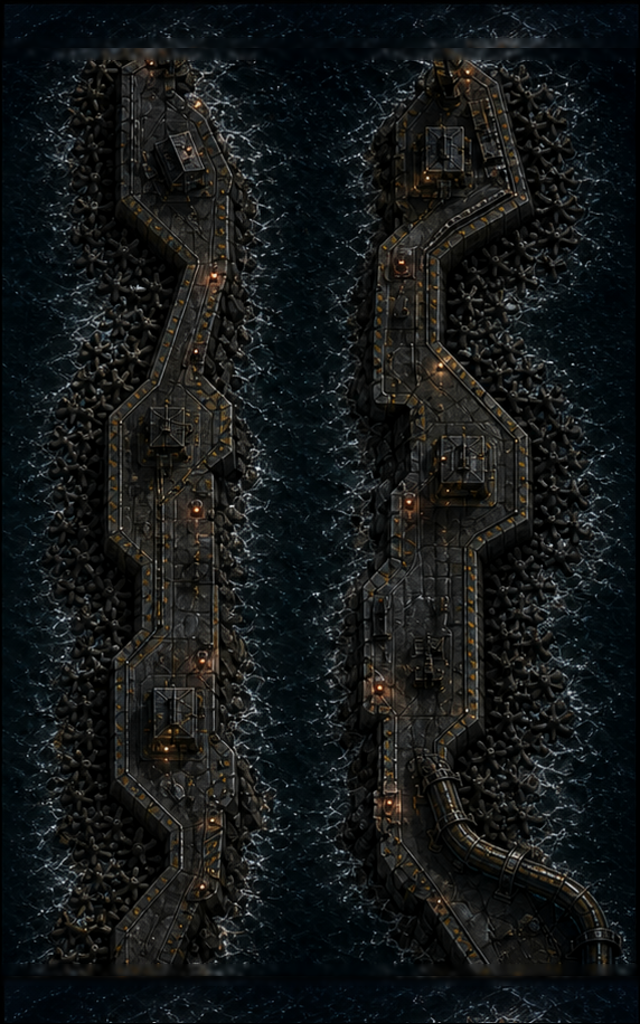
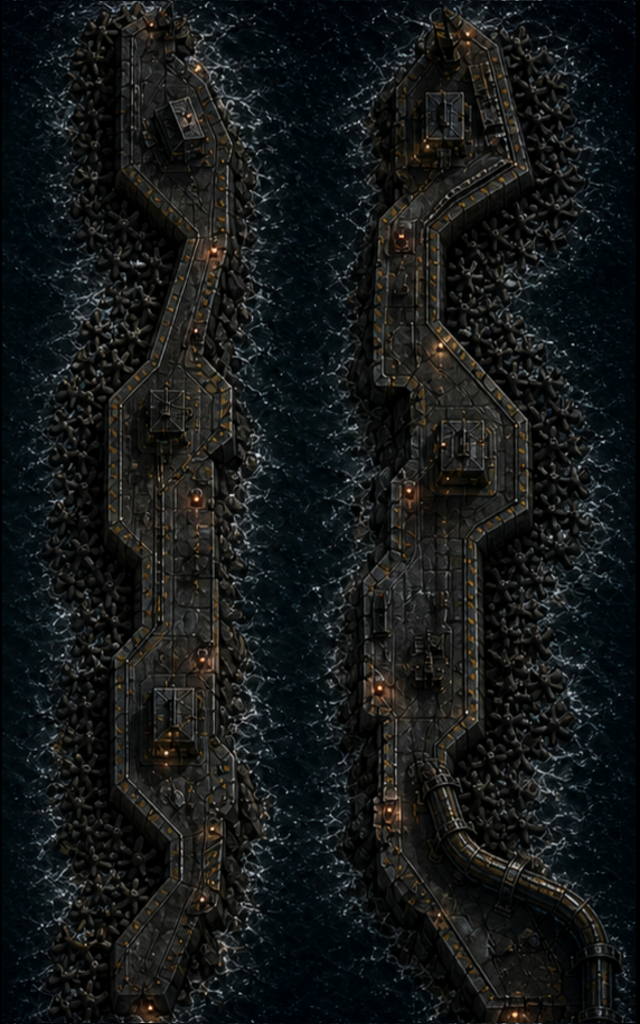
feat: repair night harbor route presentation

Changed region(s): [[0.0312, 0.0, 1.0, 1.0], [0.6562, 0.625, 0.6875, 0.6562], [0.5625, 0.625, 0.5938, 0.6562]]

diff --git a/tools/build_harbor_route_expansion.py b/tools/build_harbor_route_expansion.py
@@ -19,10 +19,10 @@ def build_district(name, base_name, contrast, colour, brightness):
     result = ImageEnhance.Contrast(result).enhance(contrast)
     result = ImageEnhance.Color(result).enhance(colour)
     result = ImageEnhance.Brightness(result).enhance(brightness)
-    # Reapply common dock connectors after grading. Ships, complete cranes,
-    # wakes, rain and water reflections remain independent animated layers.
-    result.paste(original.crop((0, 0, 640, 48)), (0, 0))
-    result.paste(original.crop((0, 976, 640, 1024)), (0, 976))
+    # Reapply only the exact outer scanline after grading. Wide inherited edge
+    # blocks created hard bands inside every mirrored harbor district.
+    result.paste(original.crop((0, 0, 640, 1)), (0, 0))
+    result.paste(original.crop((0, 1023, 640, 1024)), (0, 1023))
     SOURCE.mkdir(parents=True, exist_ok=True)
     RUNTIME.mkdir(parents=True, exist_ok=True)
     result.save(SOURCE / f"{name}.png", optimize=True)
